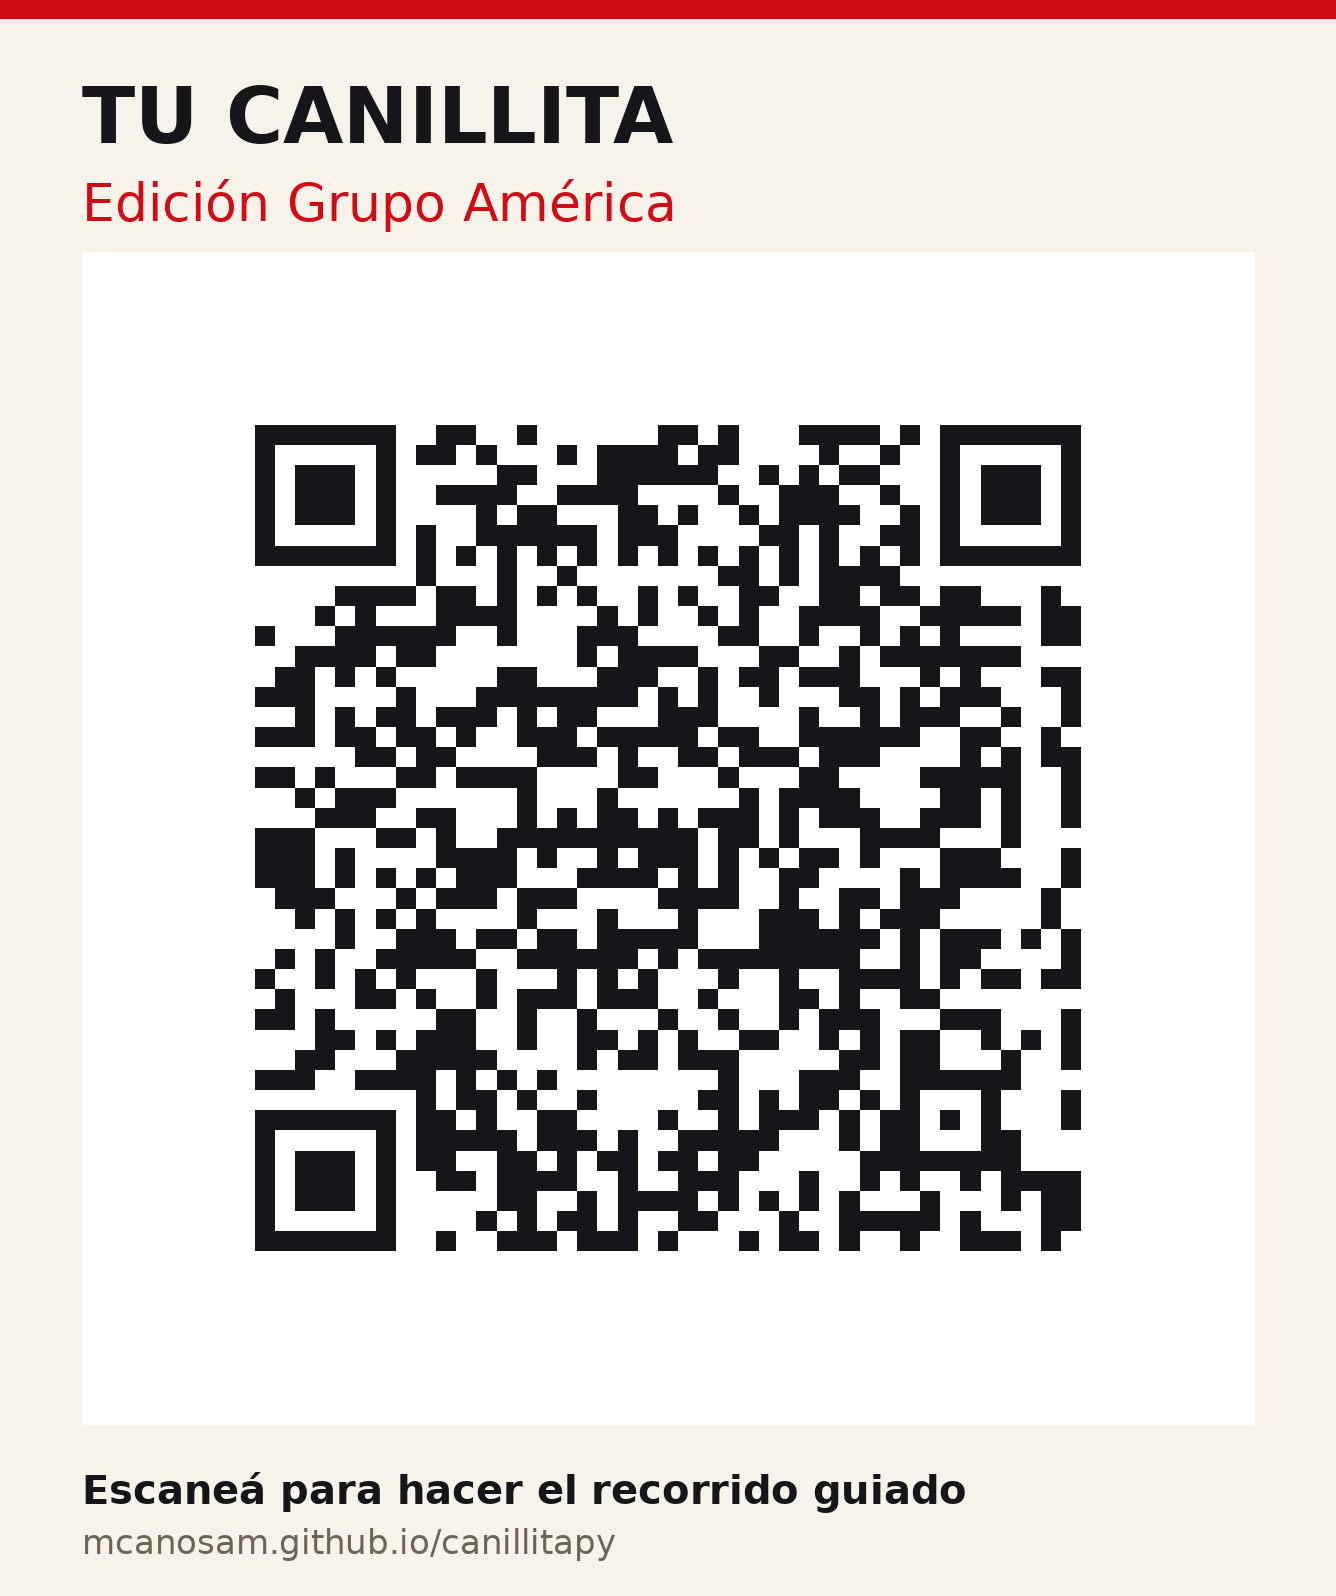
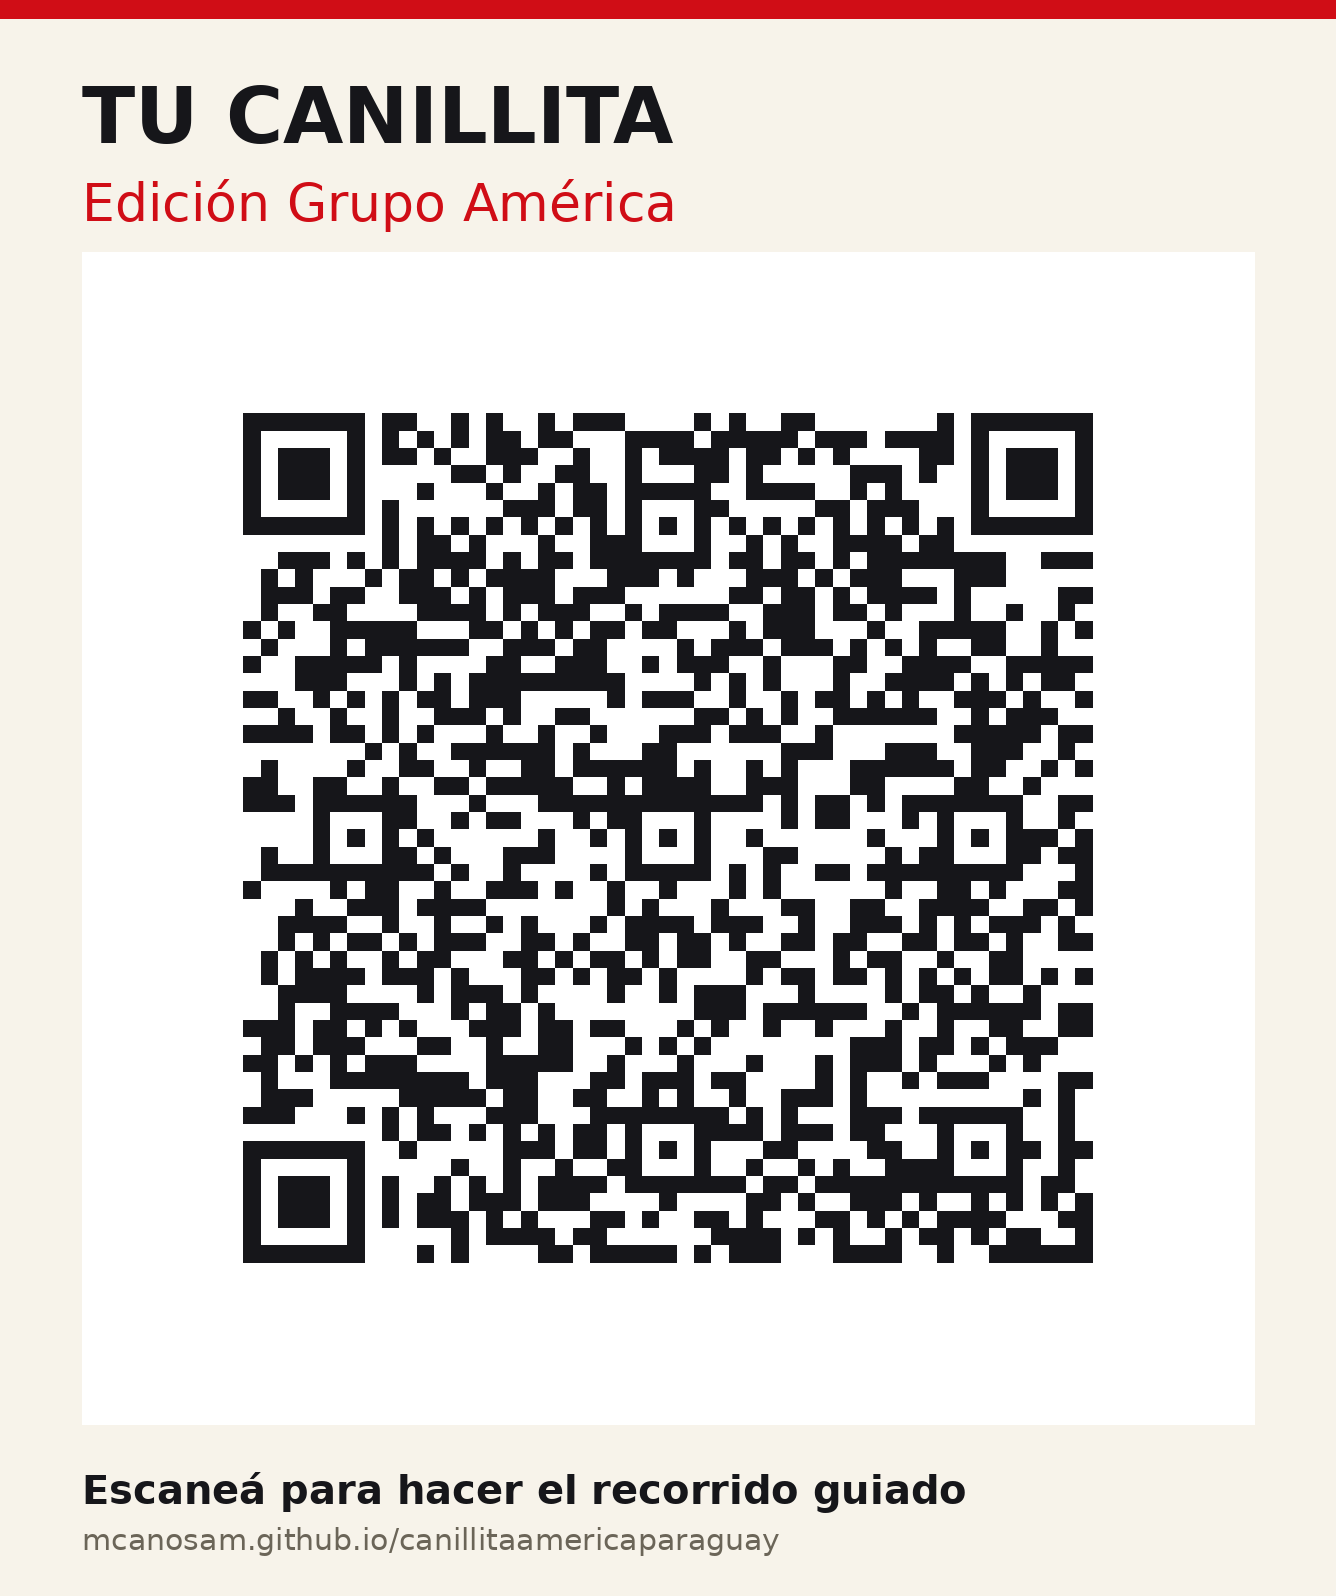
v1.31.1

Changed region(s): [[0.1841, 0.2456, 0.8286, 0.7982], [0.0614, 0.9518, 0.5831, 0.9825]]

diff --git a/bot/worker.js b/bot/worker.js
@@ -182,7 +182,7 @@ export default {
       token: env.TELEGRAM_TOKEN,
       // El respaldo tiene que ser el sitio de ESTA edición: si apuntara al de
       // la otra, un SITIO mal cargado haría que el bot sirviera su audio.
-      sitio: env.SITIO || 'https://mcanosam.github.io/canillitapy'
+      sitio: env.SITIO || 'https://mcanosam.github.io/canillitaamericaparaguay'
     };
 
     let update;

diff --git a/js/version.js b/js/version.js
@@ -17,7 +17,7 @@
 
   var Canillita = global.Canillita = global.Canillita || {};
 
-  Canillita.version = '1.31.0';
+  Canillita.version = '1.31.1';
 
   /*
    * Qué edición es esta copia. Importa por una razón poco obvia: GitHub Pages

diff --git a/README.md b/README.md
@@ -372,26 +372,30 @@ con el archivo, gracias a las marcas de tiempo que calcula el generador.
 El proyecto es estático, así que el despliegue se configura una vez y después
 cada actualización es subir los archivos.
 
-1. Crear un repositorio **público** en GitHub llamado `tu-canillita-digital`.
-   El plan gratuito solo publica desde repositorios públicos. Acá no hay claves
-   ni datos personales, así que no es un problema.
+1. Crear un repositorio **público** en GitHub llamado `canillitaamericaparaguay`. El plan
+   gratuito solo publica desde repositorios públicos. Acá no hay claves ni
+   datos personales, así que no es un problema.
+
+   El nombre importa: es el que arma la dirección del sitio, y es el que ya
+   está escrito en `wrangler.toml`, en el respaldo de `bot/worker.js` y en el
+   código QR. Si usás otro, hay que cambiarlo en esos tres lugares.
 2. Subir el contenido de la carpeta. Se puede arrastrar los archivos desde la
    web de GitHub, sin usar la terminal. Con Git:
 
    ```bash
-   cd tu-canillita-digital
+   cd tu-canillita-america
    git init
    git add .
-   git commit -m "Tu Canillita"
+   git commit -m "Tu Canillita · Edición Grupo América"
    git branch -M main
-   git remote add origin https://github.com/TUUSUARIO/tu-canillita-digital.git
+   git remote add origin https://github.com/TUUSUARIO/canillitaamericaparaguay.git
    git push -u origin main
    ```
 
 3. En **Settings → Pages**, elegir *Deploy from a branch*, rama `main`, carpeta
    `/ (root)`. Guardar.
 4. En dos o tres minutos queda publicado en
-   `https://TUUSUARIO.github.io/tu-canillita-digital/`.
+   `https://TUUSUARIO.github.io/canillitaamericaparaguay/`.
 
 Después de la primera vez, actualizar es `git add . && git commit -m "..." &&
 git push`.

diff --git a/CHANGELOG.md b/CHANGELOG.md
@@ -753,10 +753,22 @@ otras dos aunque GitHub Pages las sirva desde el mismo dominio.
 
 **Despliegue**
 
-- Worker `canillita-bot-py`, sitio `mcanosam.github.io/canillitapy`, bot
+- Worker `canillita-bot-py`, sitio `mcanosam.github.io/canillitaamericaparaguay`, bot
   `t.me/tucanillitapy_bot`. Los tres nombres son distintos de los de las otras
   dos ediciones a propósito: con el mismo nombre de Worker, el primer push
   despliega encima del bot anterior.
+
+---
+
+## v1.31.1 · 15-11-2026
+
+- El repositorio quedó con el nombre `canillitaamericaparaguay`, así que la
+  dirección del sitio cambió. Se corrigió en los tres lugares que la tienen
+  escrita: `wrangler.toml`, el respaldo de `bot/worker.js` y el README.
+- Código QR regenerado. Verificado que decodifica a
+  `https://mcanosam.github.io/canillitaamericaparaguay/?grupo=1&demo=1`.
+- El nombre del Worker (`canillita-bot-py`) y el del bot (`tucanillitapy_bot`)
+  no cambian: no dependen del nombre del repositorio.
 
 ---
 

diff --git a/bot/README.md b/bot/README.md
@@ -107,7 +107,7 @@ Buscá tu bot en Telegram por el usuario que elegiste y escribile `/start`.
 - **"Escuchar las noticias"** — manda el boletín como nota de voz, tomando el
   OGG que genera Piper.
 - **Respuestas con clip** — las respuestas grabadas llegan como nota de voz
-  además del texto. Son las que enumera `tools/build-respuestas.js`; hoy, 26.
+  además del texto. Son las que enumera `tools/build-respuestas.js`; hoy, 19.
 - **Botones** — los mismos `quickReplies` de la web, uno por fila.
 - **Fuentes y fechas** — se mantienen en cada respuesta, igual que en la web.
 
